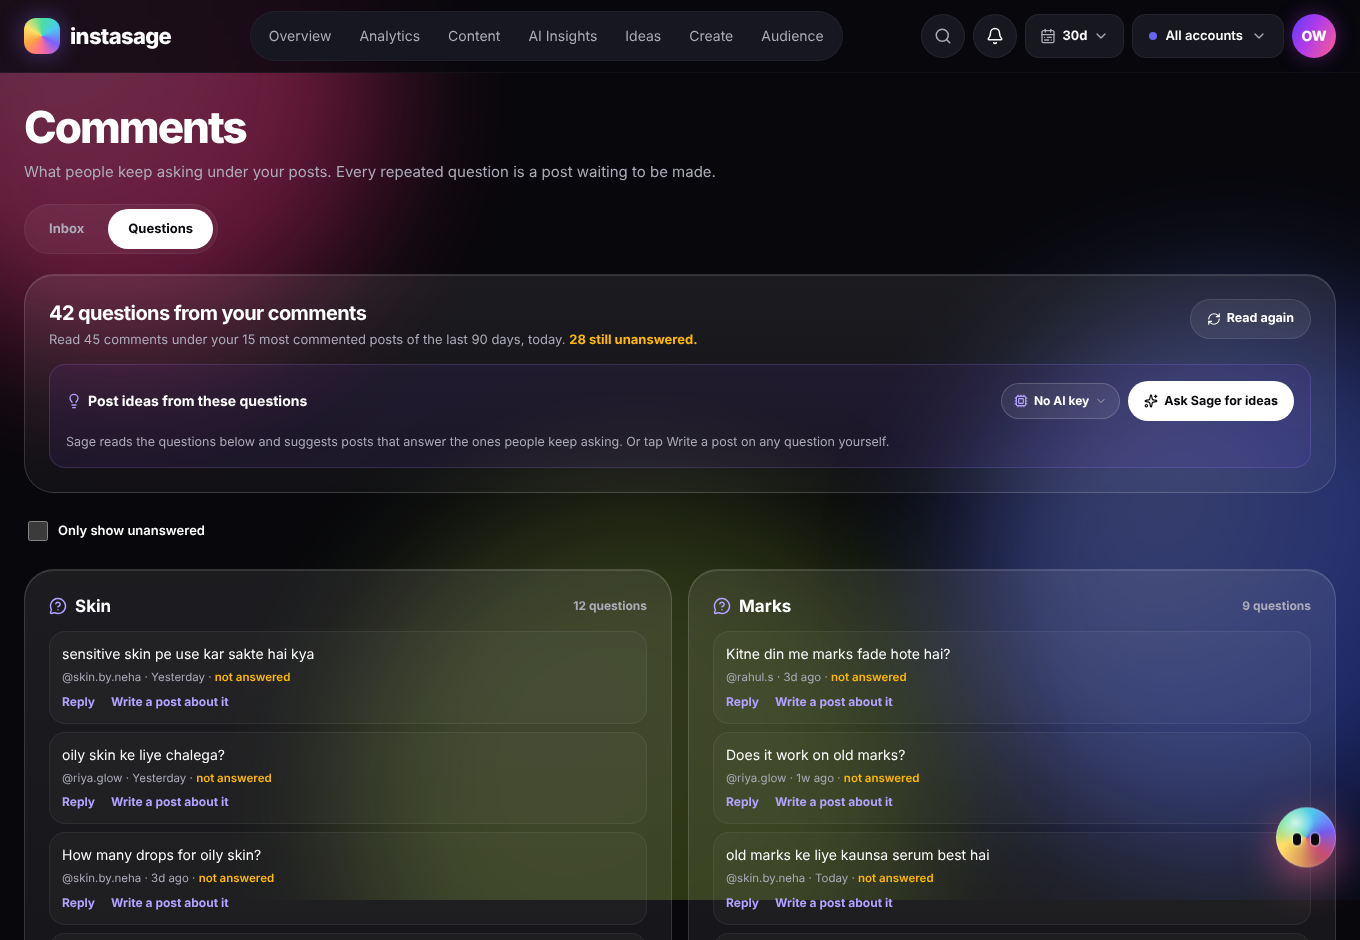
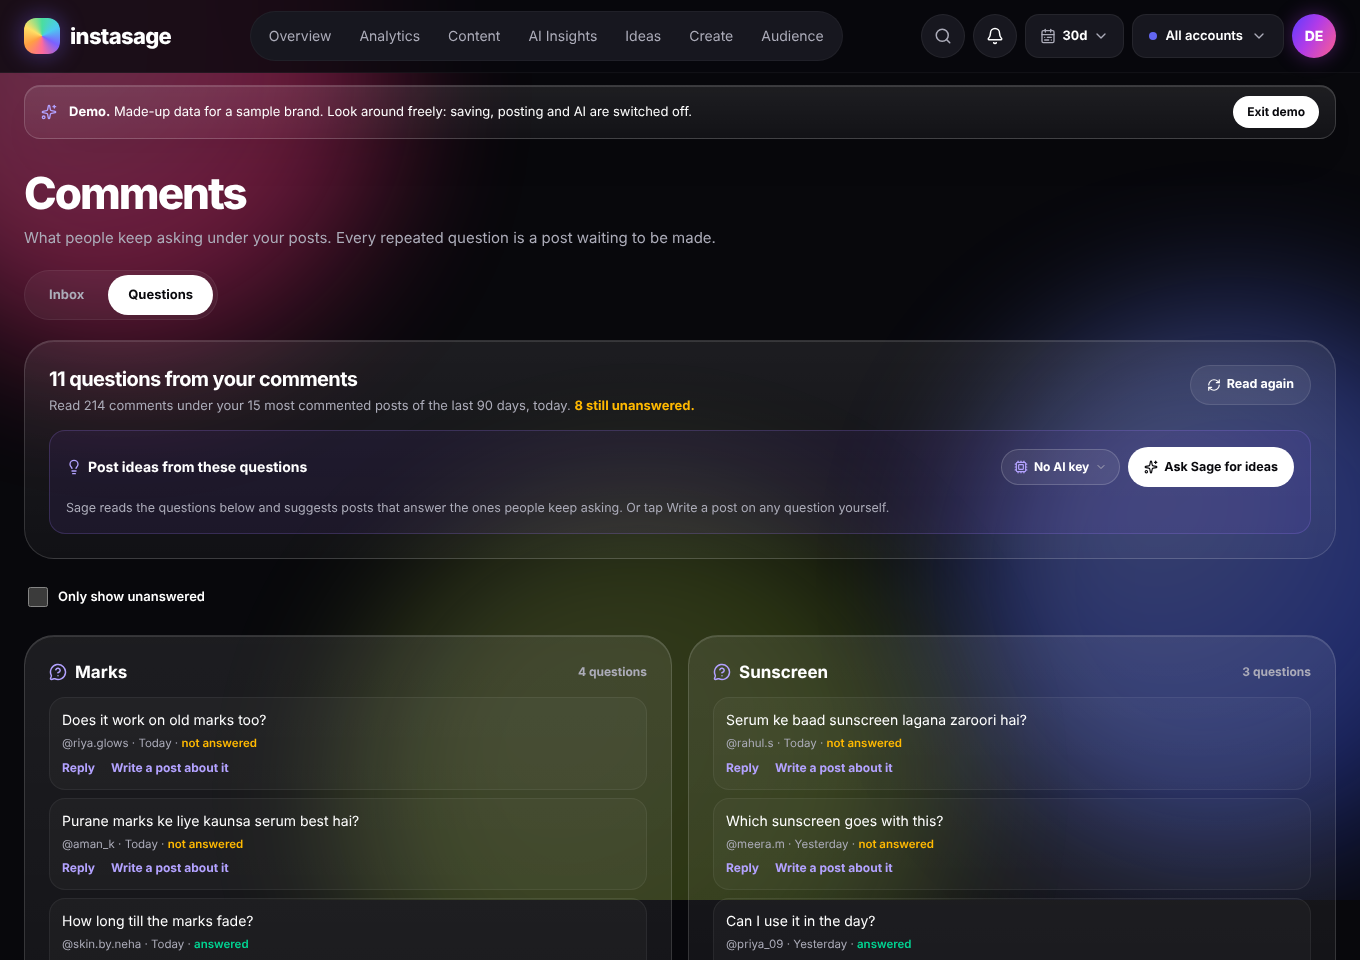
docs: README covers posting, plan chat, the demo and saved work, with new screenshots from the demo account; fix: Exit demo, demo setup checklist

diff --git a/src/components/layout/DemoBanner.tsx b/src/components/layout/DemoBanner.tsx
@@ -1,5 +1,7 @@
 'use client';
 
+import { useState } from 'react';
+import { useRouter } from 'next/navigation';
 import { signOut, useSession } from 'next-auth/react';
 import { Sparkles } from 'lucide-react';
 import { isDemo } from '@/lib/demo';
@@ -7,13 +9,22 @@ import { isDemo } from '@/lib/demo';
 // Always visible in the demo, so nobody mistakes the sample brand for real data
 export function DemoBanner() {
   const { data } = useSession();
+  const router = useRouter();
+  const [leaving, setLeaving] = useState(false);
   if (!isDemo(data?.user?.id)) return null;
+  // Signs out here and goes to the login page of this same site, whatever address the server is set to
+  const exit = async () => {
+    setLeaving(true);
+    await signOut({ redirect: false }).catch(() => {});
+    router.replace('/login');
+    router.refresh();
+  };
   return (
     <div role="status" className="relative z-30 max-w-[1480px] mx-auto px-4 sm:px-6 pt-3">
       <div className="glass-panel rounded-2xl px-4 py-2.5 flex flex-wrap items-center gap-x-3 gap-y-1.5 text-[13px]">
         <Sparkles className="w-4 h-4 text-indigo-400 shrink-0" />
         <span className="flex-1 min-w-[200px] leading-snug"><b>Demo.</b> Made-up data for a sample brand. Look around freely: saving, posting and AI are switched off.</span>
-        <button type="button" onClick={() => signOut({ callbackUrl: '/login' })} className="h-8 px-3.5 rounded-full bg-foreground text-background text-[12px] font-bold shrink-0">Exit demo</button>
+        <button type="button" onClick={exit} disabled={leaving} className="h-8 px-3.5 rounded-full bg-foreground text-background text-[12px] font-bold shrink-0 disabled:opacity-60">{leaving ? 'Leaving...' : 'Exit demo'}</button>
       </div>
     </div>
   );

diff --git a/src/services/demo.ts b/src/services/demo.ts
@@ -58,9 +58,10 @@ async function isFresh() {
 export async function ensureDemo() {
   await prisma.user.upsert({
     where: { id: DEMO_ID },
-    update: {},
+    update: { setupDismissed: true },
     create: {
       id: DEMO_ID,
+      setupDismissed: true,
       name: 'Demo creator',
       timezone: TZ,
       timezoneAuto: false,

diff --git a/README.md b/README.md
@@ -4,32 +4,44 @@ A personal analytics studio for Instagram and YouTube creators. It syncs your re
 
 It is built for **one owner**: a single password, no signups, your data in your own database.
 
+**Try it without an account:** press **Try the demo** on the login page. It opens a sample skincare brand with three months of made-up posts, a game plan, ideas, drafts and AI examples. The demo is read-only: it can't save, post, sync or use AI, and it never sees the owner's data.
+
+![Login with the demo button](docs/screenshots/login.png)
+
 ---
 
 ## What it does
 
 | Page | What you get |
 | --- | --- |
-| **Overview** | Month story, followers or subscribers, reach or channel views, engagement, views per day, best time to post, top posts |
+| **Overview** | Your latest post first, whether you are growing, Sage's next move, shortcuts to the calendar, writing, comment questions and your week, flip cards for recent posts, your goal and best time to post |
 | **Analytics** | Reach (or YouTube channel views), views, engagement, follower growth and posting frequency over 7, 30, 90 or 365 days, each headline number against the period before, and the follow funnel |
 | **Content** | Every post or video in a table or a grid, searchable, sortable and filtered by date range, with saved views and CSV export of what you filtered. Open any one for its **Insights** (the plain numbers, compared with nothing), **Compare** (against your average or any other post, side by side) and an AI breakdown |
 | **AI Insights** | Patterns in your data: best formats, days, hours, caption length, hashtags, hooks, calls to action. Below the AI's read, "The numbers behind it" shows every pattern straight from your posts, with or without an AI key |
-| **Ideas Studio** | **Game plan** (keep/stop list, content pillars, posting slots, 4 weeks of post ideas with hooks, experiments, targets), **Brainstorm** (saved chats with the AI), **Idea board** (Ideas → Planned → Posted), **Calendar** (posted, planned and the open slots of the next two weeks; drag to reschedule, export to any calendar app as .ics), **Quick wins** |
+| **Ideas Studio** | **Game plan** (keep/stop list, content pillars, posting slots, 4 weeks of post ideas with hooks, experiments, targets, and a chat to change it: Sage rewrites the plan and can put posts on the calendar, with undo), **Brainstorm** (saved chats with the AI), **Idea board** (Ideas → Planned → Posted), **Calendar** (posted, planned and the open slots of the next two weeks; drag to reschedule, export to any calendar app as .ics), **Quick wins** |
 | **Create** | **Write** (captions, reel scripts and carousels from Sage, built on the words and hooks that work for the account, with live brand checks and a views forecast), **Briefs** for a designer, **Calendar** (with the posting queue), **Hooks** (every opening line you posted, ranked), **Scorecard** (each forecast marked against what the post really did) and a **Brand kit** per account |
 | **Audience** | Instagram follower age, gender, countries and cities, plus when your posts do best, with a weekday by hour heatmap |
 | **Competitors** | Any Business or Creator account's followers, posting rhythm, format mix, likes and comments per post, top posts, a head-to-head table and AI "what to borrow, what to skip" |
 | **Comments** | Unanswered Instagram comments on recent posts, three AI reply drafts each in your voice, reply or hide in one tap. **Questions** pulls out what people keep asking, in English and Hinglish, groups it by topic and turns it into post ideas (needs the comments permission, asked for on first use) |
 | **Reports** | **Your week** (the last 7 days, best and lowest post, what is planned, three things to do next), real monthly numbers vs the previous month, an AI review, and a designed **PDF export** (plus CSV) |
 | **Status** | Health of every account, the AI, competitor tracking and recent syncs, with a fix button next to anything broken |
-| **Sage** | The chat bubble in the corner: ask anything about your numbers |
+| **Sage** | The chat bubble in the corner: ask anything about your numbers, or tell it a number is wrong and it fixes it. The conversation is kept, on every device |
 
 ### A closer look
+
+**Overview.** Your newest post and how it is doing, then the few things worth acting on.
+
+![Overview](docs/screenshots/overview.png)
 
 **Post straight to Instagram.** From Write, the calendar or the posting queue: pick a photo, carousel, reel or story, upload the files, and post now or schedule it. Your brand kit's flagged claims are checked before it goes out and again at the scheduled time. A scheduled post sits on the calendar, moves when you drag its entry, and you get a notification when it is live. Posts sent from here link themselves to their draft, so the Scorecard grades them with no linking by hand. It needs a one-time permission, file uploads and a 5 minute scheduler: **Settings → Posting** walks through all three and shows which are done.
 
 **Write with a forecast.** Sage drafts the caption, the checks keep it on brand, and the forecast says roughly how many views this wording should get, worked out from your own posts. *Plan it* puts the draft on the calendar with its caption attached.
 
 ![Create: caption, checks and forecast](docs/screenshots/create-write.png)
+
+**The posting window.** Pick the type, add the files (or a link to them), check the caption and post now or schedule it.
+
+![Posting to Instagram](docs/screenshots/posting.png)
 
 **Hook library.** Every opening line you have posted, ranked by views, and which styles of hook do better or worse for you. Sage reads this list whenever it writes hooks.
 
@@ -55,14 +67,20 @@ It is built for **one owner**: a single password, no signups, your data in your 
 
 ![Weekly digest](docs/screenshots/weekly-digest.png)
 
-**Calendar with open slots.** The next two weeks at a glance: what is planned, and the good days that still have nothing on them.
+**Change the game plan by chatting.** Say what to change in plain words ("I can only post 3 times a week", "put week 1 on my calendar"). Sage rewrites the saved plan, lists what changed, and can add the posts to your calendar. Every change can be undone.
+
+![Game plan chat](docs/screenshots/plan-chat.png)
+
+**Calendar and posting queue.** In Create, next to Write: what is waiting to go out, what went out lately, the open slots of the next two weeks, and the month.
 
 ![Calendar](docs/screenshots/calendar.png)
 
-The screenshots use made-up demo data.
+The screenshots are of the demo account, so the brand and every number in them are made up.
 
 Other details:
 
+* **Nothing gets lost.** Game plans, AI reads and post reviews stay saved through timezone changes, syncs and switching the time window, and an unsaved draft in Write survives closing the tab.
+* **Fast where you are.** The server runs in Singapore, next to the database (see Region below), and background syncs never hold up a page.
 * **Multiple accounts.** Connect several Instagram accounts and YouTube channels. The switcher in the top bar shows one or all of them.
 * **YouTube mode.** Pick a channel and every page switches to subscribers, Shorts vs long videos and titles, and hides numbers YouTube does not share.
 * **Your AI, your choice.** Save keys for several providers and pick the active one. If it is overloaded, the others step in automatically.
@@ -165,6 +183,7 @@ Everything is listed in [`.env.example`](.env.example). Put them in `.env.local`
 | `CRON_SECRET` | Daily auto sync, scheduled posts | Any long random string. Also the password for the 5 minute posting pinger: on [cron-job.org](https://cron-job.org) call `https://<your app>/api/cron/publish` every 5 minutes with the header `Authorization: Bearer <CRON_SECRET>` |
 | `BLOB_READ_WRITE_TOKEN` | Posting from your device | Added for you when you connect a Vercel Blob store to the project (Storage tab). Files are deleted once Instagram has its copy. Without it you can still post from a public link |
 | `RESEND_API_KEY`, `DIGEST_EMAIL_FROM` | Weekly digest by email | Optional. A [Resend](https://resend.com) key; without it the digest goes out by push only. The default sender only delivers to the Resend account's own address, so verify a domain and set `DIGEST_EMAIL_FROM` to send anywhere. The address to send to is saved in Settings → Notifications |
+| `DEMO` | The demo account | Optional. Set to `off` to remove **Try the demo** from the login page |
 | `VAPID_PUBLIC_KEY`, `VAPID_PRIVATE_KEY`, `VAPID_SUBJECT` | Push notifications | Optional. A key pair is generated on first use and stored in the database; set these only to bring your own |
 
 API keys you paste inside the app (AI providers, YouTube) are stored in your database and are never sent back to the browser. Only the last 4 characters are shown.
@@ -275,6 +294,7 @@ src/services/
   weekly.ts, email.ts       The weekly digest, as a page, a push and an email
   creative.ts               Brand kits and saved drafts for the Create tab
   publish.ts                Posting to Instagram: checks, the queue, and each post's steps
+  demo.ts                   The demo account's made-up data, rebuilt once a day
 src/proxy.ts                Redirects to /login when signed out (Next 16's middleware)
 vercel.json                 Daily cron schedule
 ```
